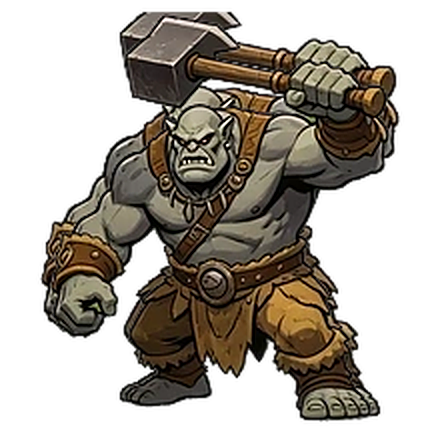
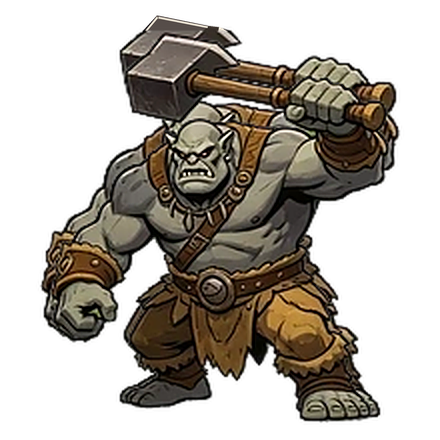
Ogre : marteau complété (tête arrière rognée), fiche des monstres sur les vignettes individuelles

diff --git a/tools/fix_ogre.py b/tools/fix_ogre.py
@@ -1,0 +1,44 @@
+#!/usr/bin/env python3
+"""Complète le marteau de l'ogre (assets/monsters/m22.webp + case 22 de la planche des monstres) : la tête arrière du marteau était
+rognée à plat par le bord de l'image d'origine. On dessine le haut manquant de cette tête (face supérieure, arêtes claires, contour) sous les pixels
+existants ; l'image gagne 20 px de marge en haut puis revient à 440 px (l'ogre est réduit de ~4,5 %).
+Usage : python3 tools/fix_ogre.py <m22_original.webp> -   (écrit assets/monsters/m22.webp ; la fiche du monstre lit désormais ce fichier, pas la planche)"""
+import sys
+from PIL import Image, ImageDraw
+import numpy as np
+
+PAD = 20
+SS = 4                    # sur-échantillonnage du dessin (bords lissés)
+src_m22 = sys.argv[1]
+m = Image.open(src_m22).convert("RGBA")
+W, H = m.size
+big = Image.new("RGBA", (W, H + PAD), (0, 0, 0, 0))
+big.alpha_composite(m, (0, PAD))
+a = np.array(big)
+def sample(x0, x1, y0, y1):
+    reg = a[PAD + y0:PAD + y1, x0:x1].reshape(-1, 4).astype(float)
+    reg = reg[reg[:, 3] > 200]
+    return tuple(int(v) for v in reg[:, :3].mean(0))
+face = sample(160, 190, 14, 18)         # gris de la face supérieure (bande visible juste sous la coupure)
+dark = sample(204, 216, 13, 16)         # face latérale sombre
+bev = (236, 228, 212)                   # arête claire
+line = (22, 17, 22)                     # contour
+def P(x, y): return ((x) * SS, (y + PAD) * SS)
+layer = Image.new("RGBA", (W * SS, (H + PAD) * SS), (0, 0, 0, 0))
+d = ImageDraw.Draw(layer)
+A_, T_, U_, B_ = (143, 12), (157, -4), (209, 7), (203, 12)
+# contour sombre un peu plus large que les formes
+for poly, col in [([A_, T_, U_, (219, 8.4), (230, 12), (230, 20), (143, 20)], line)]:
+    d.polygon([P(x, y) for x, y in poly], fill=line + (255,))
+d.polygon([P(x, y) for x, y in [(A_[0] + 1.5, A_[1] + 8), (A_[0] + 2, A_[1]), T_, (U_[0] - 0.5, U_[1]), (B_[0], B_[1] + 8)]], fill=face + (255,))
+d.polygon([P(x, y) for x, y in [B_, U_, (219, 8.4), (219, 14)]], fill=dark + (255,))
+d.polygon([P(x, y) for x, y in [(218, 14), (219, 8.4), (222.5, 9.5), (229, 14)]], fill=bev + (255,))
+# arêtes claires (haut-gauche et haut-droite de la face supérieure)
+d.line([P(A_[0] + 2.5, A_[1] + 1), P(T_[0] + 0.5, T_[1] + 2.2)], fill=bev + (255,), width=int(2.2 * SS))
+d.line([P(T_[0] + 1.5, T_[1] + 2.4), P(U_[0] - 1.5, U_[1] + 1.4)], fill=bev + (255,), width=int(2.0 * SS))
+# contour sombre propre sur l'extérieur : on évide l'intérieur déjà peint puis on redessine le contour fin
+under = layer.resize((W, H + PAD), Image.LANCZOS)
+res = Image.alpha_composite(under, big)
+res = res.resize((W, H), Image.LANCZOS)
+res.save("assets/monsters/m22.webp", lossless=True, quality=100, method=6)
+print("m22 écrit", res.getchannel("A").getbbox())

diff --git a/docs/TECHNIQUE.md b/docs/TECHNIQUE.md
@@ -321,3 +321,6 @@ Les événements `popup` du combat portent une cible `on` : `""` (monstre, colon
 
 ### Anneau d'or redessiné
 La vignette de la planche d'objets (case 40, `ITEM_SPRITE_LEGACY`) était rognée sur les côtés. `ring_gold` n'est plus dans cette table : l'icône vient de `assets/icons/ring_gold.png` (256 px), générée par `tools/gen_ring_icon.py` (jonc doré rendu en 3D, éclairage métallique, bords lissés). La table `ITEM_SPRITE_LEGACY` est prioritaire sur `assets/icons/`, d'où le retrait de l'entrée.
+
+### Ogre : marteau complété
+La tête arrière du marteau de l'ogre (case 22 de la planche des monstres) était rognée à plat par le bord de l'image d'origine. `tools/fix_ogre.py` redessine la face supérieure manquante (arêtes claires, contour sombre) sous les pixels existants et rend `assets/monsters/m22.webp` (l'ogre est réduit de ~4,5 % pour faire de la place, il garde la même position au sol). `IconResolver` lit désormais ces vignettes individuelles (`assets/monsters/mNN.webp`, agrandies ×2, déjà utilisées en 3D) pour les monstres de la planche quand elles existent, de sorte que la fiche et la vue 3D montrent la même image ; la planche d'origine n'est pas ré-encodée (aucune perte de qualité pour les autres monstres). Aperçu : `tools/shot_ogre.tscn`.
